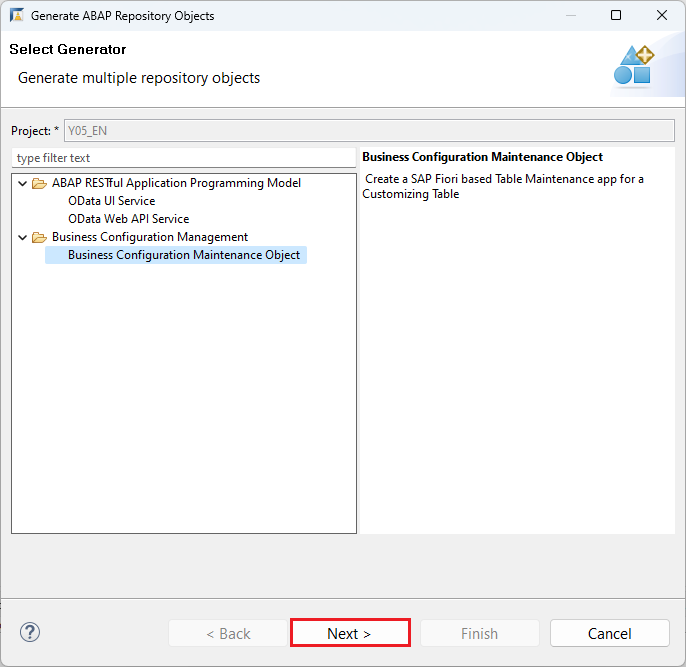
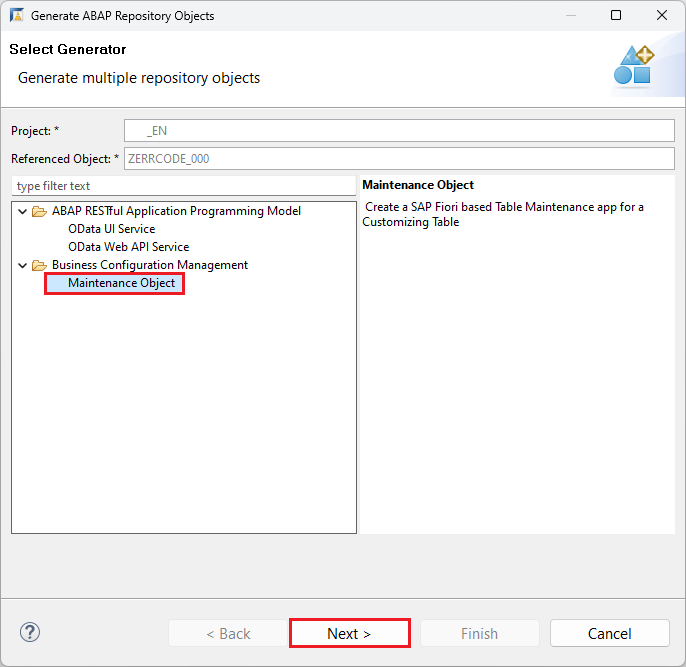
update wizard image

Changed region(s): [[0.0, 0.1799, 0.949, 0.4498]]

diff --git a/tutorials/abap-environment-business-configuration-object/abap-environment-business-configuration-object.md b/tutorials/abap-environment-business-configuration-object/abap-environment-business-configuration-object.md
@@ -189,7 +189,7 @@ A [**Business Configuration Maintenance Object**](https://help.sap.com/products/
 
       ![Start ABAP Repository Objects generator](bc.png)
 
-  2. Select **`Business Configuration Maintenance Object`** and click **Next >**. On the next screen, click **Next >** to confirm the target package.
+  2. Select **`Maintenance Object`** and click **Next >**. On the next screen, click **Next >** to confirm the target package.
 
      ![Select generator](bc2.png)
 
